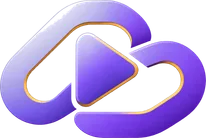
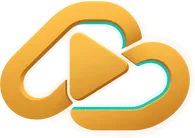
dogrudan baglanti izgaraya alindi, kendi markasiyla
Onceki hali: platform izgarasinin altinda ayri bir satir — daire icinde
kure ikonu, kalin baslik, alt aciklama ve sag ok. Digerlerinin yaninda
platform gibi degil, ayar satiri gibi duruyordu.

Artik izgaranin son hucresi. Netflix/Prime/Disney+ ile ayni hucre
bicimi, ayni logo yuksekligi (46 px), altinda kucuk "Dogrudan baglanti"
yazisi.

Gorsel isleme: uretilen 1774x887 PNG'de gorunur alanin %34,2'si beyaz
hale ve gri lekeydi, yalniz %65,8'i amblemdi. Temizlik renk doygunlugu
olcutuyle yapildi (altin ve turkuaz yuksek doygunlukta, hale sifira
yakin), 608.861 piksel silindi; amblemden bir sey eksilmedi. Sonuc
kirpilip 195x138'e indirildi, WebP q82, 12,1 KB.

Kullanilmayan dogrudan ve dogrudanSimge stilleri silindi.

Claude-Session: https://claude.ai/code/session_01XcZcfiDn6ZtQUk3dNpKemr

diff --git a/src/app/parti-platform.tsx b/src/app/parti-platform.tsx
@@ -71,7 +71,6 @@ export default function PartiPlatform() {
                 </Pressable>
               );
             })}
-          </View>
 
           <Pressable
             onPress={() => {
@@ -79,19 +78,19 @@ export default function PartiPlatform() {
               if (secim) router.replace({ pathname: "/parti-dogrudan", params: { secim: "1" } });
               else router.push({ pathname: "/parti-dogrudan", params: {} });
             }}
-            style={styles.dogrudan}
+            style={styles.hucre}
           >
-            <View style={styles.dogrudanSimge}>
-              <Icon name="globe2" size={18} color={C.teal} />
-            </View>
-            <View style={{ flex: 1, minWidth: 0 }}>
-              <Txt weight="extrabold" size={13} color="#fff">Doğrudan bağlantı</Txt>
-              <Txt size={11} color={C.dim} style={{ marginTop: 2 }}>
-                Kendi video adresin · eşzamanlı izleme
-              </Txt>
-            </View>
-            <Icon name="chev" size={15} color={C.dim2} />
+            <Image
+              source={require("@/assets/marka/dogrudan-marka.webp")}
+              style={styles.logo}
+              contentFit="contain"
+              transition={0}
+            />
+            <Txt size={10} color={C.dim} align="center" style={styles.dogrudanYazi}>
+              Doğrudan bağlantı
+            </Txt>
           </Pressable>
+          </View>
         </ScrollView>
       </SafeAreaView>
     </View>
@@ -107,16 +106,8 @@ const styles = StyleSheet.create({
   geri: { width: 30, height: 30, alignItems: "center", justifyContent: "center" },
   izgara: { flexDirection: "row", flexWrap: "wrap", justifyContent: "space-between", rowGap: 30 },
   hucre: { width: "46%", height: 66, alignItems: "center", justifyContent: "center" },
+  dogrudanYazi: { marginTop: 2 },
   logo: { width: "100%", height: 46 },
   logoKilitli: { opacity: 0.28 },
-  dogrudan: {
-    flexDirection: "row", alignItems: "center", gap: 12, marginTop: 30,
-    padding: 14, borderRadius: 14,
-    backgroundColor: "rgba(255,255,255,.04)", borderWidth: 1, borderColor: C.line,
-  },
-  dogrudanSimge: {
-    width: 34, height: 34, borderRadius: 17, alignItems: "center", justifyContent: "center",
-    backgroundColor: "rgba(94,234,212,.10)", borderWidth: 1, borderColor: "rgba(94,234,212,.24)",
-  },
   kilitNotu: { marginTop: 4 },
 });
